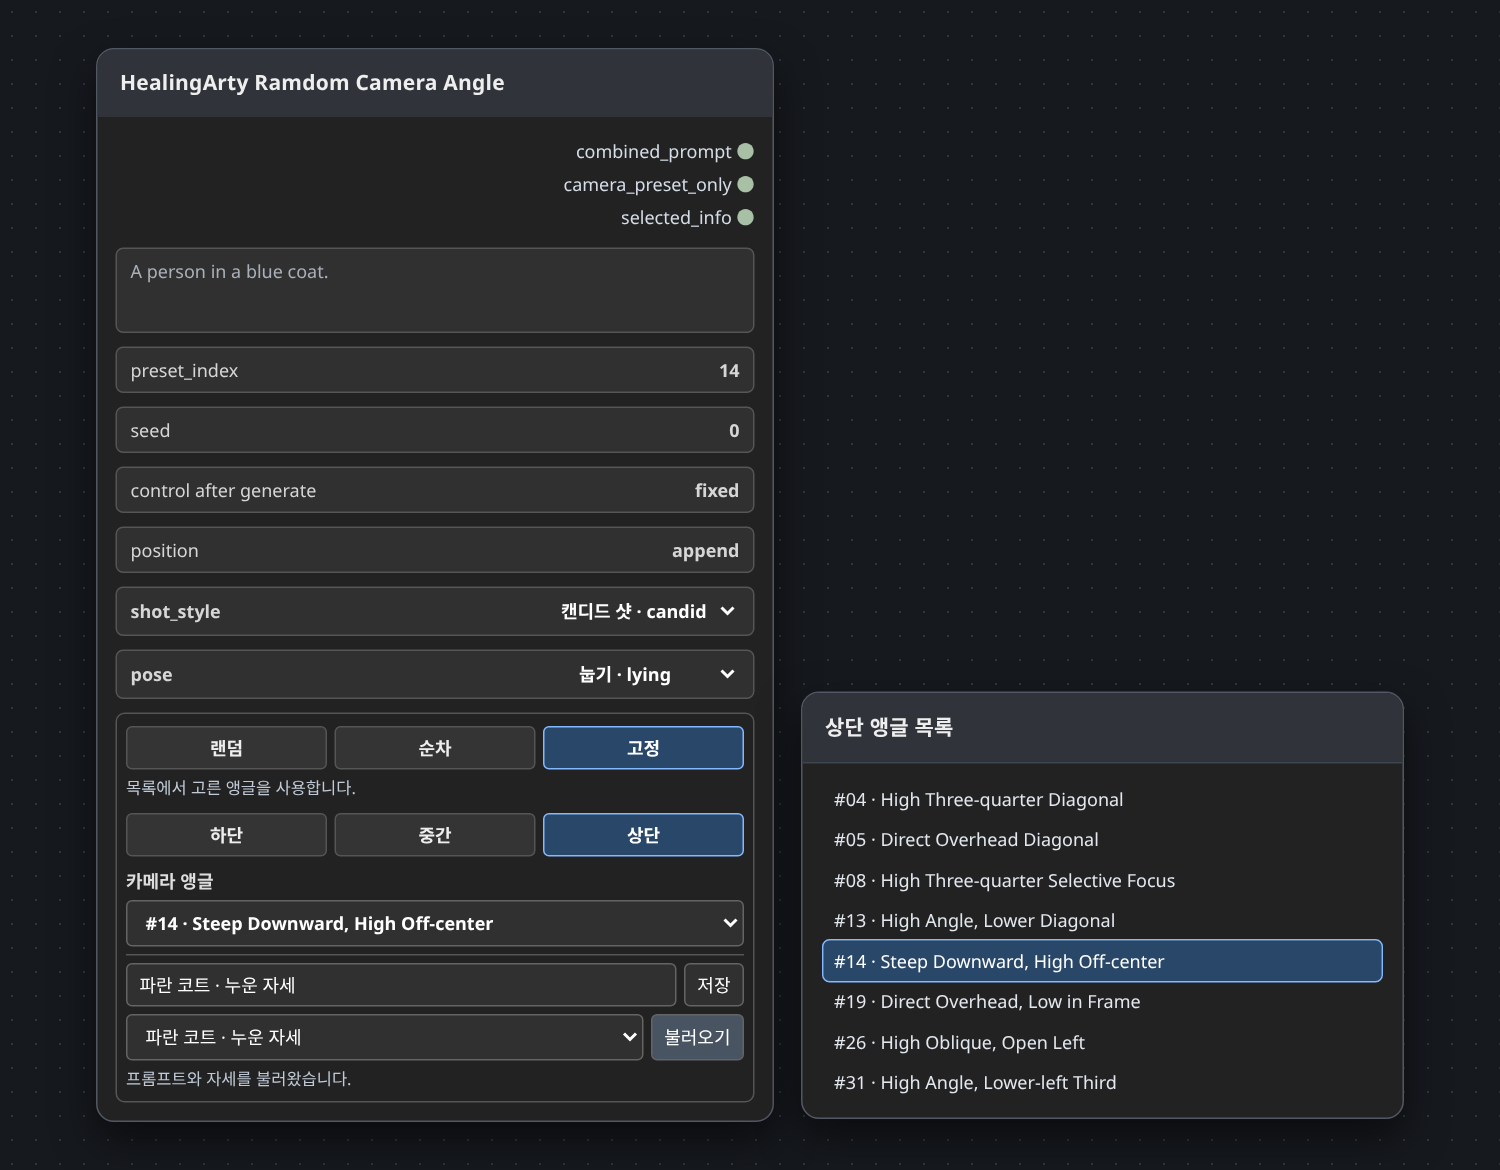
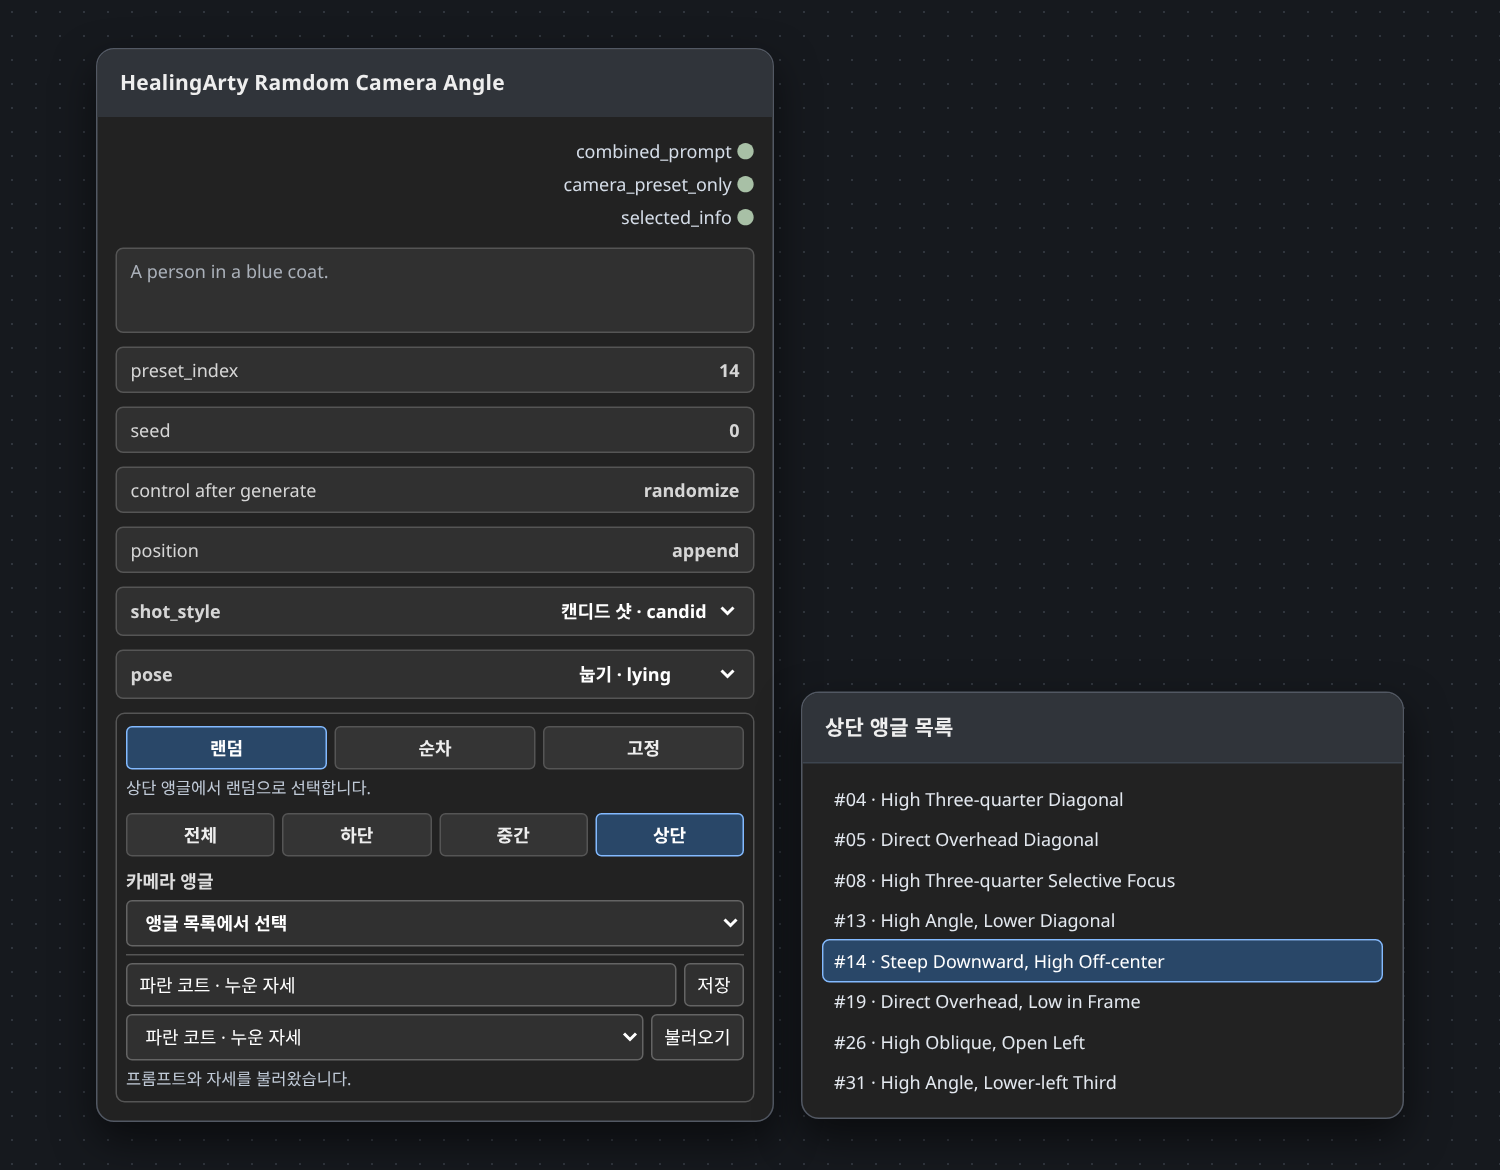
Limit random camera angles to the selected height

diff --git a/web/camera_design.js b/web/camera_design.js
@@ -2,6 +2,7 @@ import { app } from "../../scripts/app.js";
 
 const NODE_TYPE = "CameraComposition100";
 const HEIGHTS = [
+    { value: "all", label: "전체" },
     { value: "low", label: "하단" },
     { value: "mid", label: "중간" },
     { value: "high", label: "상단" },
@@ -9,7 +10,7 @@ const HEIGHTS = [
 const PANEL_HEIGHT = 260;
 const PROMPT_STORAGE_KEY = "HealingArty.CameraComposition100.savedPrompts";
 const MODES = [
-    { label: "랜덤", value: "랜덤 · random", api: "random", seedControl: "randomize", hint: "실행할 때마다 새 시드로 구도를 고릅니다." },
+    { label: "랜덤", value: "랜덤 · random", api: "random", seedControl: "randomize", hint: "" },
     { label: "순차", value: "순차 · sequential", api: "sequential", seedControl: "increment", hint: "시드 0부터 시작하면 01 → 100 순서로 촬영합니다." },
     { label: "고정", value: "고정 · fixed", api: "fixed", seedControl: "fixed", hint: "목록에서 고른 앵글을 사용합니다." },
 ];
@@ -113,7 +114,7 @@ function addSavedPrompts(node, panel, baseWidget, poseWidget) {
     refreshList();
 }
 
-function addModePanel(node, modeWidget, indexWidget, presets) {
+function addModePanel(node, modeWidget, indexWidget, scopeWidget, presets) {
     const panel = document.createElement("section");
     panel.className = "ha-camera-mode-panel";
     panel.setAttribute("aria-label", "카메라 프리셋 선택 방식");
@@ -140,7 +141,7 @@ function addModePanel(node, modeWidget, indexWidget, presets) {
     picker.append(caption, select);
     panel.append(picker);
 
-    let height = "mid";
+    let height;
     let renderedHeight;
     let previousFixedIndex;
     const heightButtons = HEIGHTS.map(({ value, label }) => {
@@ -148,8 +149,11 @@ function addModePanel(node, modeWidget, indexWidget, presets) {
         button.type = "button";
         button.textContent = label;
         button.addEventListener("click", () => {
-            height = value;
+            setWidget(node, scopeWidget, height === value ? "all" : value);
+            height = scopeWidget.value;
             refresh();
+            node.graph?.change?.();
+            node.setDirtyCanvas?.(true, true);
         });
         heightRow.append(button);
         return button;
@@ -162,12 +166,13 @@ function addModePanel(node, modeWidget, indexWidget, presets) {
             button.setAttribute("aria-pressed", String(HEIGHTS[index].value === height));
         });
 
-        const placeholder = new Option("앵글 목록에서 선택", "");
+        const placeholder = new Option(height === "all" ? "높이를 고르면 앵글 목록이 열립니다" : "앵글 목록에서 선택", "");
         placeholder.disabled = true;
         const options = presets.filter((preset) => preset.height === height).map((preset) =>
             new Option(`#${String(preset.id).padStart(2, "0")} · ${preset.title}`, preset.id)
         );
         select.replaceChildren(placeholder, ...options);
+        select.disabled = height === "all";
     }
 
     const seedWidget = node.widgets.find((widget) => widget.name === "seed");
@@ -205,7 +210,8 @@ function addModePanel(node, modeWidget, indexWidget, presets) {
         const current = MODES[active];
         const fixedIndex = current?.api === "fixed" ? Number(indexWidget.value) : undefined;
         const fixedPreset = presets.find((preset) => preset.id === fixedIndex);
-        if (fixedPreset && (restoring || fixedIndex !== previousFixedIndex)) {
+        if (current?.api !== "fixed" || restoring) height = scopeWidget.value;
+        if (fixedPreset && (fixedIndex !== previousFixedIndex || (restoring && height === "all"))) {
             height = fixedPreset.height;
         }
         previousFixedIndex = fixedIndex;
@@ -213,8 +219,9 @@ function addModePanel(node, modeWidget, indexWidget, presets) {
 
         const selected = fixedPreset?.height === height ? String(fixedIndex) : "";
         if (select.value !== selected) select.value = selected;
-        const message = current?.api === "random" && seedControl?.value !== "randomize"
-            ? "같은 시드를 사용하면 같은 구도가 선택됩니다."
+        const scope = HEIGHTS.find(({ value }) => value === scopeWidget.value);
+        const message = current?.api === "random"
+            ? `${scope?.label ?? "전체"} 앵글에서 랜덤으로 선택합니다.`
             : current?.hint ?? "";
         if (hint.textContent !== message) hint.textContent = message;
     }
@@ -230,12 +237,19 @@ function addModePanel(node, modeWidget, indexWidget, presets) {
         getHeight: () => PANEL_HEIGHT,
         onDraw: () => refresh(),
     });
-    // Keep the native value widget in the workflow and API serialization.
-    modeWidget.type = "hidden";
-    modeWidget.computeSize = () => [0, -4];
-    modeWidget.draw = () => {};
-    refresh();
-    return () => refresh(true);
+    // Keep both native values in workflow and API serialization.
+    for (const widget of [modeWidget, scopeWidget]) {
+        widget.type = "hidden";
+        widget.computeSize = () => [0, -4];
+        widget.draw = () => {};
+    }
+    function restore() {
+        if (!HEIGHTS.some(({ value }) => value === scopeWidget.value)) scopeWidget.value = "all";
+        refresh(true);
+    }
+
+    restore();
+    return restore;
 }
 
 app.registerExtension({
@@ -258,8 +272,9 @@ app.registerExtension({
 
             const mode = this.widgets?.find((widget) => widget.name === "mode");
             const index = this.widgets?.find((widget) => widget.name === "preset_index");
-            if (mode && index && presets?.length && this.addDOMWidget) {
-                this.refreshHealingArtyMode = addModePanel(this, mode, index, presets);
+            const scope = this.widgets?.find((widget) => widget.name === "random_height");
+            if (mode && index && scope && presets?.length && this.addDOMWidget) {
+                this.refreshHealingArtyMode = addModePanel(this, mode, index, scope, presets);
                 const [width, height] = this.computeSize();
                 this.setSize([Math.max(390, width), Math.max(530, height)]);
             }

diff --git a/web/camera_design.css b/web/camera_design.css
@@ -52,6 +52,7 @@
 }
 
 .ha-camera-height-row {
+    grid-template-columns: repeat(4, minmax(0, 1fr));
     margin-top: 4px;
 }
 

diff --git a/nodes.py b/nodes.py
@@ -54,6 +54,11 @@ def load_presets():
 
 
 PRESETS = load_presets()
+PRESETS_BY_HEIGHT = {
+    "all": PRESETS,
+    **{height: tuple(preset for preset in PRESETS if preset["height"] == height)
+       for height in HEIGHT_LABELS},
+}
 
 
 class CameraComposition100:
@@ -93,6 +98,7 @@ class CameraComposition100:
             "optional": {
                 "shot_style": (list(SHOT_STYLES), {"tooltip": "앵글과 별도로 시선 또는 캔디드 촬영 연출을 선택합니다."}),
                 "pose": (list(POSE_STYLES), {"tooltip": "자세를 따로 선택합니다. 포즈 랜덤 노드의 자세를 사용하려면 지정 안 함을 선택하세요."}),
+                "random_height": (list(PRESETS_BY_HEIGHT), {"default": "all", "tooltip": "랜덤 모드에서 사용할 촬영 높이입니다."}),
             },
         }
 
@@ -102,20 +108,19 @@ class CameraComposition100:
             return f"Unsupported mode: {mode!r}"
         return True
 
-    def compose(self, base_prompt, mode, preset_index, seed, position, shot_style="지정 안 함 · none", pose="지정 안 함 · none"):
+    def compose(self, base_prompt, mode, preset_index, seed, position, shot_style="지정 안 함 · none", pose="지정 안 함 · none", random_height="all"):
         mode = MODE_LABELS.get(mode, mode)
         if mode == "random":
-            offset = random.Random(seed).randrange(PRESET_COUNT)
+            preset = random.Random(seed).choice(PRESETS_BY_HEIGHT[random_height])
         elif mode == "sequential":
-            offset = seed % PRESET_COUNT
+            preset = PRESETS[seed % PRESET_COUNT]
         elif mode == "fixed":
             if not 1 <= preset_index <= PRESET_COUNT:
                 raise ValueError(f"preset_index must be between 1 and {PRESET_COUNT}.")
-            offset = preset_index - 1
+            preset = PRESETS[preset_index - 1]
         else:
             raise ValueError(f"Unsupported mode: {mode!r}")
 
-        preset = PRESETS[offset]
         camera = " ".join(filter(None, (preset["prompt"], SHOT_STYLES[shot_style])))
         base = base_prompt.strip()
         if position == "append":
